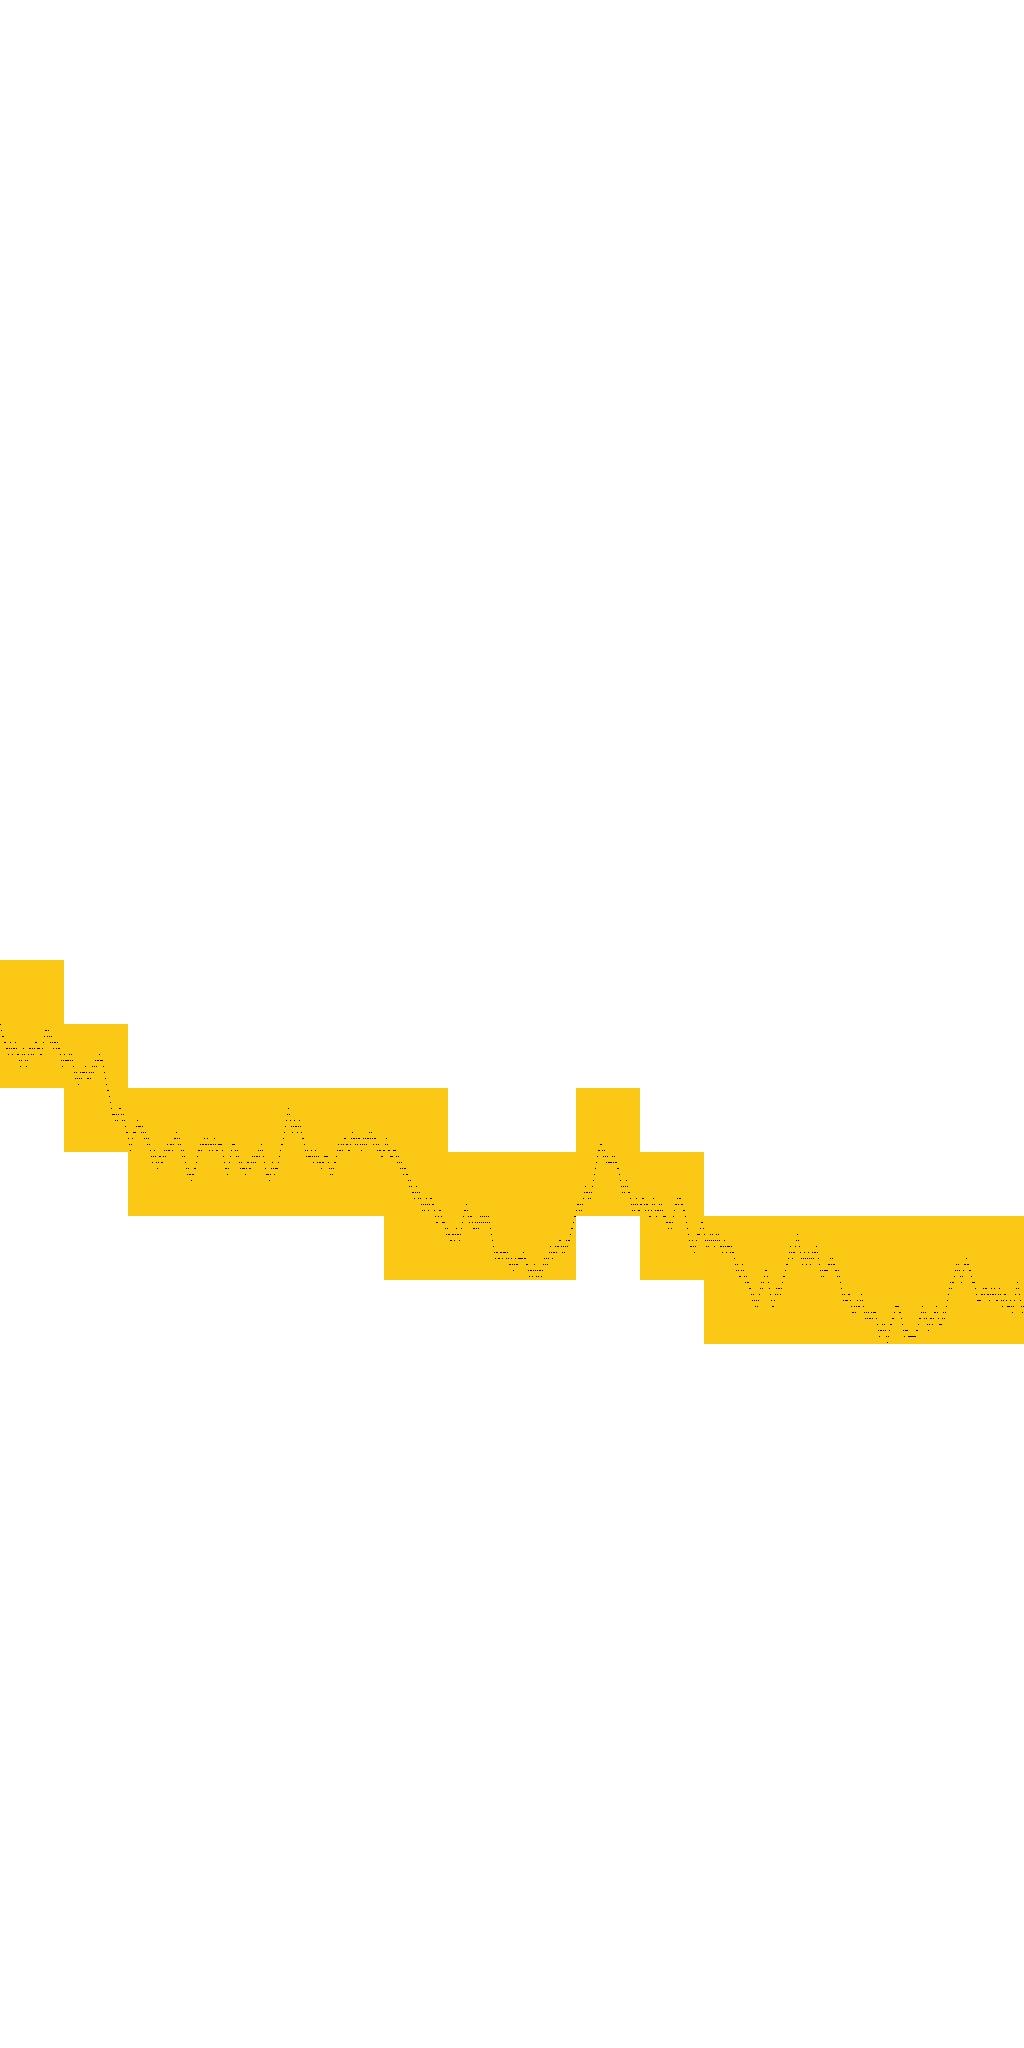
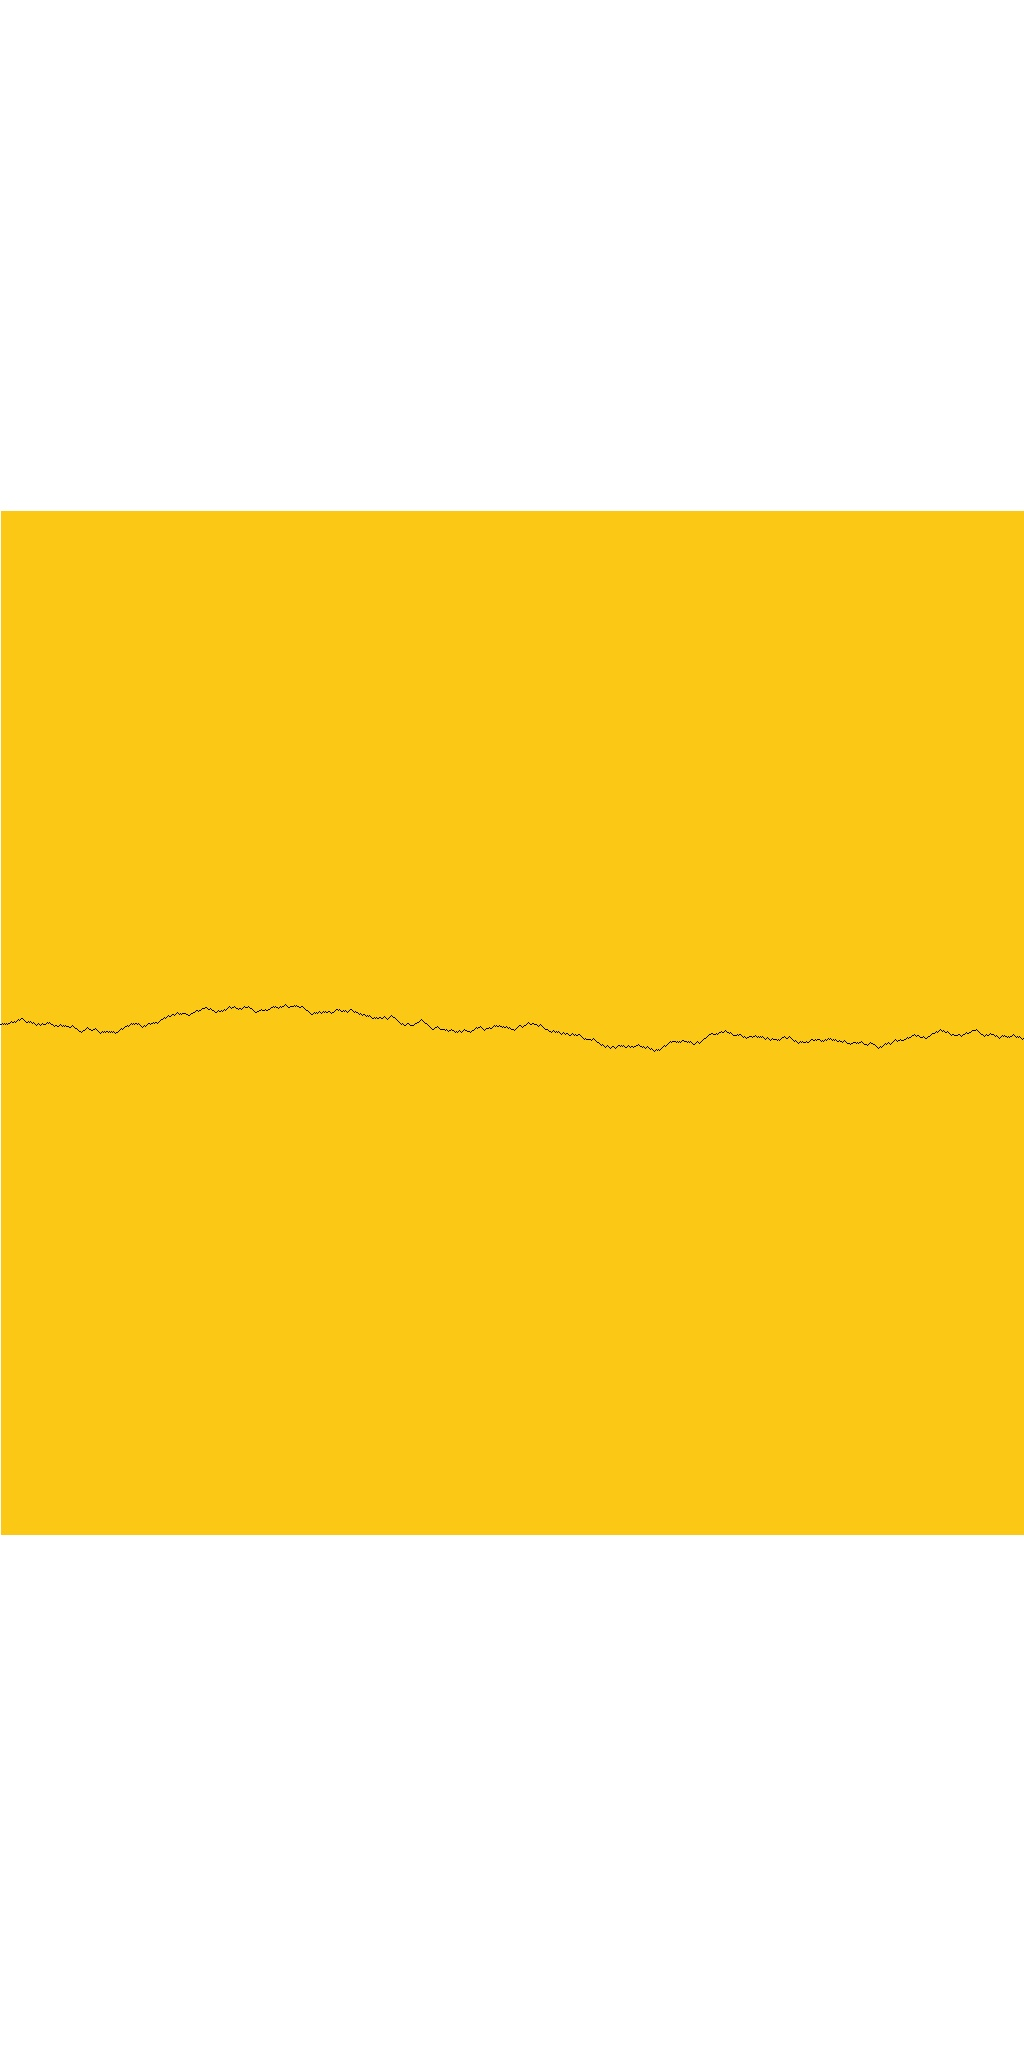
UI update

diff --git a/kochcurvetest.py b/kochcurvetest.py
@@ -1,6 +1,6 @@
 #-------------------------------------------------------------------------------
 # Name:        module1
-# Purpose:     This code tests the program in module1 with a known fractal, in order to make sure that it works correctly
+# Purpose:     tests the code with a known fractal
 #
 # Author:      Richard Li
 #
@@ -57,41 +57,50 @@ for a in notpointlist:
     bruh0 = a[0]
     bruh1 = a[1]
     pointlist.append([bruh0+8192, bruh1])
-print(pointlist[0])
 
-framesize = [16384, 16384]
+framesize = [32768, 32768]
 
 #boxsize is distance from center to edges
 def checkboxes(boxsize, pointlist):
+    #number of boxes which will be created in each direction
     xboxnum = int(framesize[0]/(boxsize*2))
     yboxnum = int(framesize[1]/(boxsize*2))
     boxlist = []
+    #creates boxes
     for i in range (xboxnum):
         addtoboxlist = [2*i*boxsize+boxsize]
         for j in range (yboxnum):
             addtoboxlist.append([2*j*boxsize+boxsize, False])
         boxlist.append(addtoboxlist)
+    #initializes previousx and previousy (purpose of these variables is in a later comment)
     previousx = 0
     previousy = 0
+    #looks through points, and checks to see if they are in a box
     for a in pointlist:
         for b in range ((previousx-2), (previousx+3)):
             for c in range ((previousy-2), (previousy+3)):
+                #makes sure nothing weird is happening with b and c
                 if b >= 0  and b <= xboxnum:
                     if c >= 1 and c <= yboxnum:
                         x = boxlist[b][0]
                         y = boxlist[b][c][0]
+                        #checks if point is in box
                         if a[0] >= (x-boxsize):
                             if a[0] <= (x+boxsize):
                                 if a[1] >= (y-boxsize):
                                     if a[1] <= (y+boxsize):
+                                        #marks the box the point is in as being "True"
                                         boxlist[b][c][1] = True
                                         break
             else:
                 continue
             break
+        #we know that the next point of the random walk will be near the current point, which means that we only have to check boxes relatively near the current point in order to have checked all boxes possible for the next point to be in; this significantly improves the speed of the program, instead of checking if the point is in every single box
         previousx = b
         previousy = c
 
+    #counts how many boxes there are points in, and returns a list of points to be highlighted
+    highlightedpointlist = []
     counter = 0
     for b in boxlist:
         for c in b:
@@ -100,19 +109,21 @@ def checkboxes(boxsize, pointlist):
             else:
                 if c[1] == True:
                     counter += 1
-    return counter
+    return [counter, highlightedpointlist]
 
 #delogged data to analyze
 boxnumlist = []
-for i in range (9, 13):
-    boxsize = 16384/(2**i)
-    boxscale = i-9
+for i in range (2, 13):
+    boxsize = 32768/(2**i)
+    #we take log base 2 of all the numbers, then do a linear regression, in order to find an exponential regression of the data as a whole
+    #this means that we can just use i as the x axis, instead of messing around with exponents and logs here
+    boxscale = i
     numberofboxestouched = checkboxes(boxsize, pointlist)
-    print(boxsize, i-9, numberofboxestouched, math.log2(numberofboxestouched))
-    boxnumlist.append([boxscale, math.log2(numberofboxestouched)])
+    boxnumlist.append([boxscale, math.log2(numberofboxestouched[0])])
 
 #linear regression on delogged data
 #see Griswold's notes on linear regression
+#this part of the code finds the SSR, and creates the first quadratic equation
 linearTerm = 0
 aCoefficient = 0
 bCoefficient = 0
@@ -153,17 +164,9 @@ extranewACoefficient = aCoefficient1
 extranewLinearTerm2 = linearTerm1
 a = (extranewLinearTerm2-extranewLinearTerm1)/extranewACoefficient
 
-print(a, b)
-
-#creates image
-MyImg =Image.new('RGB', (16384, 32767), "white")
-pixels = MyImg.load()
-for a in pointlist:
-    pixels[a[0], a[1]] = (0, 0, 0)
-#MyImg.show()
-MyImg.save('graph.jpg', quality=95)
-
-print(time.time()-start)
+print("Fractal dimension: ", a)
+print(boxnumlist)
+print("Time taken: ", time.time()-start)
 
 
 

diff --git a/module1.py b/module1.py
@@ -16,6 +16,19 @@ from PIL import Image
 
 start = time.time()
 
+print("MIT License")
+print("")
+print("Copyright © 2021 Richard Li")
+print("")
+print("Permission is hereby granted, free of charge, to any person obtaining a copy of this software and associated documentation files (the “Software”), to deal in the Software without restriction, including without limitation the rights to use, copy, modify, merge, publish, distribute, sublicense, and/or sell copies of the Software, and to permit persons to whom the Software is furnished to do so, subject to the following conditions:")
+print("")
+print("The above copyright notice and this permission notice shall be included in all copies or substantial portions of the Software.")
+print("")
+print("THE SOFTWARE IS PROVIDED “AS IS”, WITHOUT WARRANTY OF ANY KIND, EXPRESS OR IMPLIED, INCLUDING BUT NOT LIMITED TO THE WARRANTIES OF MERCHANTABILITY, FITNESS FOR A PARTICULAR PURPOSE AND NONINFRINGEMENT. IN NO EVENT SHALL THE AUTHORS OR COPYRIGHT HOLDERS BE LIABLE FOR ANY CLAIM, DAMAGES OR OTHER LIABILITY, WHETHER IN AN ACTION OF CONTRACT, TORT OR OTHERWISE, ARISING FROM, OUT OF OR IN CONNECTION WITH THE SOFTWARE OR THE USE OR OTHER DEALINGS IN THE SOFTWARE.")
+print("")
+print("")
+print("Running...")
+
 up = 400
 down = 400
 #center is the remaining probability
@@ -30,9 +43,9 @@ for i in range (0, 32768):
     where = random.randint(0, 1000)
     pointlist.append([x, y])
     if where <= down:
-        y += 6
+        y += 1
     elif where <= (up+down):
-        y -= 6
+        y -= 1
     x += 1
 
 framesize = [32768, 65536]
@@ -88,7 +101,9 @@ def checkboxes(boxsize, pointlist):
                     counter += 1
                     for i0 in range (int(b[0]-boxsize), int(b[0]+boxsize)):
                         for i1 in range (int(c[0]-boxsize), int(c[0]+boxsize)):
-                            highlightedpointlist.append([i0, i1])
+                            if i0+1 < 1024:
+                                if i1 > 31745 and i1-1 < 33793:
+                                    highlightedpointlist.append([i0+1, i1-31745])
     return [counter, highlightedpointlist]
 
 #creates image
@@ -103,9 +118,7 @@ def createimage (pointlist, highlightedpointlist, name):
             scaledpointlist.append([n[0], n[1]-31744])
 
     for b in numberofboxestouched[1]:
-        if b[1] > 31744 and b[1] < 33792:
-            if b[0] < 1024:
-                pixels[b[0], b[1]-31744] = (250, 200, 21)
+        pixels[b[0], b[1]] = (250, 200, 21)
 
     for a in scaledpointlist:
         pixels[a[0], a[1]] = (0, 0, 0)
@@ -115,13 +128,14 @@ def createimage (pointlist, highlightedpointlist, name):
 
 #delogged data to analyze
 boxnumlist = []
-for i in range (9, 13):
+for i in range (6, 15):
     boxsize = 32768/(2**i)
     #we take log base 2 of all the numbers, then do a linear regression, in order to find an exponential regression of the data as a whole
     #this means that we can just use i as the x axis, instead of messing around with exponents and logs here
     boxscale = i
     numberofboxestouched = checkboxes(boxsize, pointlist)
-    createimage(pointlist, numberofboxestouched[1], str(i-9))
+    #a bit inefficient getting a list of points first then creating an image, but this can be solved "in hardware"
+    createimage(pointlist, numberofboxestouched[1], str(i-6))
     boxnumlist.append([boxscale, math.log2(numberofboxestouched[0])])
 
 #linear regression on delogged data
@@ -168,7 +182,7 @@ extranewLinearTerm2 = linearTerm1
 a = (extranewLinearTerm2-extranewLinearTerm1)/extranewACoefficient
 
 print("Fractal dimension: ", a)
-print(boxnumlist)
+#print(boxnumlist)
 print("Time taken: ", time.time()-start)
 
 

diff --git a/README.md b/README.md
@@ -1,0 +1,7 @@
+The main code is in the module1.py file. This usually takes about 3 minutes, but may be significantly longer if your computer does not have enough memory; it eats up about 16 GB of memory while running.
+
+After running the module1.py file, 9 images will be generated, each with different box sizes from finding the box counting dimension of the random walk.
+
+The kochcurvetest.py file generates a Koch curve, and determines the fractal dimension of the generated curve, in order to demonstrate that the algorithm used to find the fractal dimension agrees with others.
+
+The linearregressiontest.py file tests the linear regression function included in the module1.py file.
